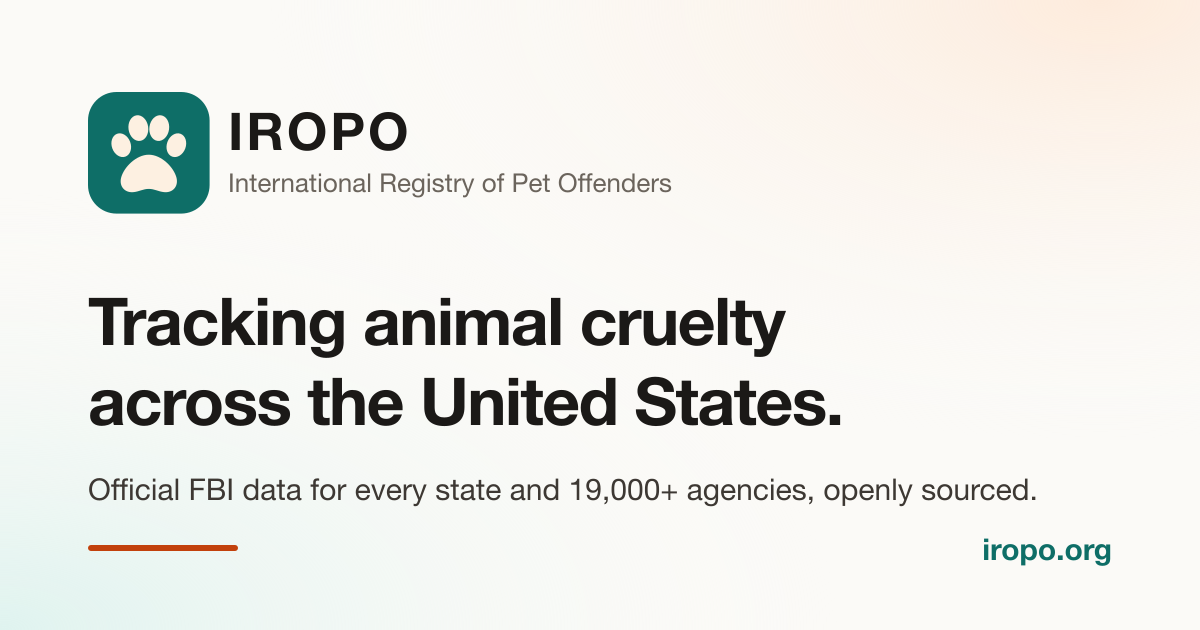
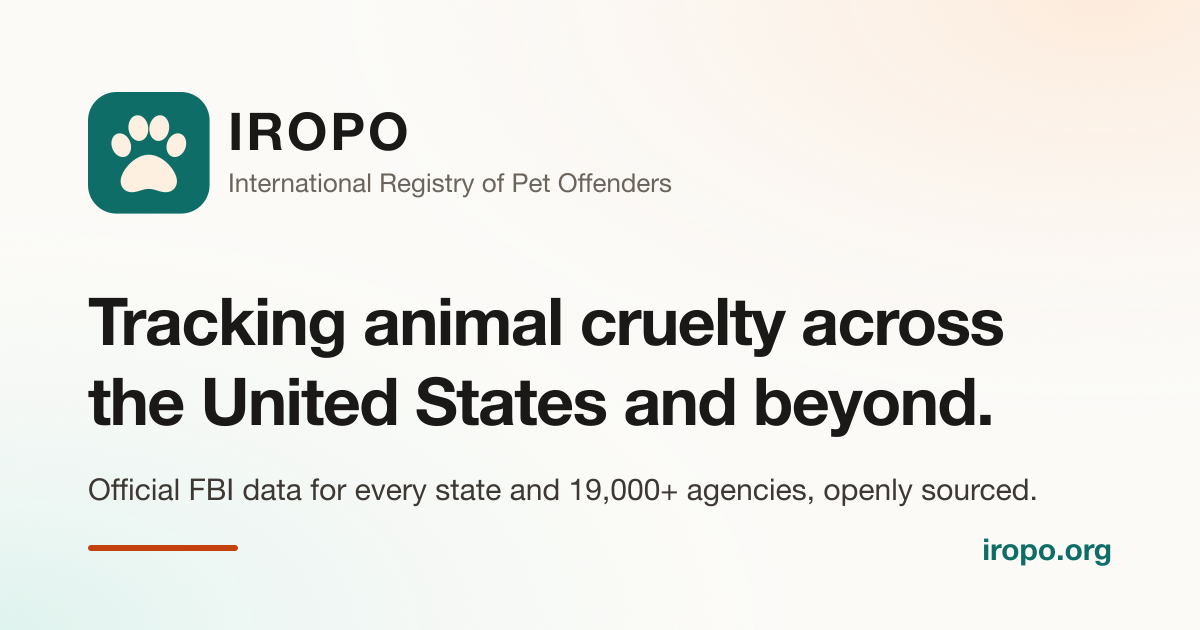
Scope IROPO to the United States and beyond
The site now describes its scope as "the United States and beyond".
Beyond the US, coverage is limited to the only countries with more
people: China and India. Every country's laws on animal cruelty, court
records and personal data differ, and each needs its own legal review,
so the list stays short.

- Update the tagline, meta description, footer and Open Graph image
- Add a scope section to the About page and link it from the home page
- Add Phase 4 (Beyond the United States) to the roadmap, README and
  business plan, plus a jurisdictional risk and per-country legal review
- Limit registry record countries to US, CN and IN in the schema, with
  a test
- Mention China and India in the coverage page, contributing guide,
  get-involved page and data source form

Changed region(s): [[0.0617, 0.6032, 0.8325, 0.6937], [0.6475, 0.4825, 0.8325, 0.573]]

diff --git a/src/lib/site.ts b/src/lib/site.ts
@@ -3,7 +3,7 @@ export const SITE = {
   longName: "International Registry of Pet Offenders",
   url: "https://iropo.org",
   description:
-    "IROPO turns official FBI crime data and public records into one verifiable source of truth on animal cruelty in the United States.",
+    "IROPO turns official crime data and public records into one verifiable source of truth on animal cruelty in the United States and beyond.",
   repo: "https://github.com/the-robots/iropo.org",
 };
 

diff --git a/pipeline/tests/test_build.py b/pipeline/tests/test_build.py
@@ -5,7 +5,7 @@ import pytest
 
 from iropo_pipeline import config
 from iropo_pipeline.build import _dumps, publishable
-from iropo_pipeline.validate import validate_all
+from iropo_pipeline.validate import _schema, validate_all
 
 
 def record(**overrides):
@@ -36,6 +36,39 @@ def test_publication_gate_requires_two_reviewers_and_unexpired_listing():
     assert not publishable(record(verification={"reviewers": ["alice", "Alice"]}), today)
     assert not publishable(record(listing={"expires_at": "2026-09-30"}), today)
     assert publishable(record(listing={"expires_at": "2027-01-01"}), today)
+
+
+def test_registry_records_are_limited_to_countries_in_scope():
+    validator = _schema("registry-record.schema.json")
+
+    def full_record(country, state):
+        return {
+            "id": "iropo-test0001",
+            "status": "draft",
+            "subject": {"kind": "person", "name": {"full": "Test Subject"}},
+            "case": {
+                "jurisdiction": {"country": country, "state": state},
+                "offense": {"description": "Animal cruelty"},
+                "disposition": "convicted",
+            },
+            "sources": [
+                {
+                    "type": "court_record",
+                    "url": "https://example.org/case",
+                    "retrieved_at": "2026-09-30T00:00:00Z",
+                }
+            ],
+            "provenance": {
+                "created_at": "2026-09-30T00:00:00Z",
+                "updated_at": "2026-09-30T00:00:00Z",
+                "created_by": "test",
+            },
+        }
+
+    for country, state in (("US", "NC"), ("CN", "GD"), ("IN", "MH")):
+        assert list(validator.iter_errors(full_record(country, state))) == []
+    for country in ("CA", "GB", "BR"):
+        assert list(validator.iter_errors(full_record(country, "ON")))
 
 
 def test_dumps_keeps_scalar_arrays_on_one_line():

diff --git a/BUSINESS_PLAN.md b/BUSINESS_PLAN.md
@@ -6,7 +6,7 @@
 
 ## 1. Executive summary
 
-IROPO is a nonprofit-oriented animal-welfare project that aggregates public and official records into a single, verifiable source of truth documenting people who have harmed animals, and publishes that information at `iropo.org` for advocates, shelters, rescues, adoption agencies, and the public.
+IROPO is a nonprofit-oriented animal-welfare project that aggregates public and official records into a single, verifiable source of truth documenting people who have harmed animals, and publishes that information at `iropo.org` for advocates, shelters, rescues, adoption agencies, and the public. Its geographic scope is the United States and beyond: the US first, then only the countries with more people than the US, China and India (Section 3.3).
 
 The project is currently a data-collection and research effort with no revenue, no formal legal entity, and no dedicated funding. This plan defines what IROPO will offer, how it will be built and operated, and — most centrally — how it will be funded, since funding is the current blocker called out in the README's "Mission and goals" and "Roadmap" sections.
 
@@ -20,7 +20,7 @@ The project is currently a data-collection and research effort with no revenue, 
 
 ### 3.1 Core offering (free, public good)
 - A searchable public registry at `iropo.org` of animal-cruelty offender records, each with source citations, verification status, and a correction/removal path.
-- State/city coverage starting with the states already represented in this repository (NC, ND, NY), expanding over time.
+- Coverage of the United States (aggregate statistics already span all 50 states and DC), expanding beyond the US only to China and India (Section 3.3).
 
 ### 3.2 Supporting offerings (to help fund the core mission)
 - **Verified data access / API tier** — a rate-limited or licensed API for shelters, rescues, background-check vendors, and researchers who want structured, machine-readable access beyond the public search UI.
@@ -29,6 +29,15 @@ The project is currently a data-collection and research effort with no revenue, 
 - **Merchandise / branded donations page** — low-effort, low-priority revenue support (stickers, apparel) tied to the mission, mainly for community engagement rather than material funding.
 
 The core registry must remain free and public; paid tiers apply only to bulk/API/institutional access, not to basic public search.
+
+### 3.3 Geographic scope: the United States and beyond
+
+IROPO is an international registry, but covering every country is not realistic: laws on animal cruelty, court records, and personal data differ from country to country, and many are much stricter than in the US. The scope is therefore limited to countries at least the size of the United States by population:
+
+- **United States** — covered today.
+- **China** and **India** — the only countries with more people than the US; planned for Phase 4.
+
+Together these are the world's three most populous countries. Each new country requires its own legal review (Section 5) and source evaluation before any of its data is published. Other countries are out of scope unless this plan is revised.
 
 ## 4. Market and users
 
@@ -42,6 +51,7 @@ Before any funding or public launch, IROPO needs a formal legal footing:
 
 - Evaluate forming a **501(c)(3) nonprofit** (or fiscal sponsorship under an existing nonprofit) to enable tax-deductible donations and grant eligibility. Fiscal sponsorship is the faster near-term path while full nonprofit status is pursued.
 - Obtain legal review specific to publishing personally identifying information about individuals (defamation, privacy, and jurisdiction-specific risk), as flagged in the README's legal & ethical considerations.
+- Before expanding beyond the US, obtain a separate legal review for China and India covering animal cruelty law, access to and reuse of court records, and data protection law (China's Personal Information Protection Law; India's Digital Personal Data Protection Act, 2023).
 - Define governance: who has authority to add/remove/correct records, and an appeals process for disputed entries.
 - Confirm licensing terms for any third-party data sources (e.g., FBI Crime Data API terms of use).
 
@@ -49,7 +59,7 @@ Before any funding or public launch, IROPO needs a formal legal footing:
 
 This maps directly onto the existing README roadmap, sequenced into phases with funding gates.
 
-> **Status (September 2026):** the canonical record schema and draft publication, correction and dispute policies are done (Phase 0). The automated FBI importer covers all 50 states and DC with provenance and a coverage matrix (Phase 1). The framework decision is made and the public site, search and open-data downloads are live at `iropo.org` on free GitHub Pages hosting (Phase 2). Legal structure, legal review, court-record sources and the individual-record verification workflow remain open. See the [roadmap](https://iropo.org/roadmap/).
+> **Status (September 2026):** the canonical record schema and draft publication, correction and dispute policies are done (Phase 0). The automated FBI importer covers all 50 states and DC with provenance and a coverage matrix (Phase 1). The framework decision is made and the public site, search and open-data downloads are live at `iropo.org` on free GitHub Pages hosting (Phase 2). Legal structure, legal review, court-record sources and the individual-record verification workflow remain open. Expansion beyond the United States is limited to China and India (Phase 4). See the [roadmap](https://iropo.org/roadmap/).
 
 ### Phase 0 — Foundation (pre-funding)
 - Formalize legal structure (fiscal sponsorship or nonprofit filing).
@@ -74,6 +84,13 @@ This maps directly onto the existing README roadmap, sequenced into phases with 
 - Promote across social media and animal-welfare communities.
 - Establish an ongoing maintenance plan (updates, reviews, corrections, archival).
 
+### Phase 4 — Beyond the United States
+- Obtain a legal review for China and India covering animal cruelty, court record, and personal data law.
+- Catalog and evaluate official animal cruelty data and court record sources in each country.
+- Recruit volunteers and partners with legal and language expertise in each country.
+- Extend the schemas, pipeline, and site to jurisdictions outside the US.
+- Publish a country's data only after its legal review is complete.
+
 Each phase should only begin once the funding needed to staff and run it (Section 7) is secured or credibly committed — avoid scaling data collection or publishing faster than verification and legal review can keep up.
 
 ## 7. Funding plan
@@ -81,7 +98,7 @@ Each phase should only begin once the funding needed to staff and run it (Sectio
 ### 7.1 What funding is needed for
 - **Hosting and infrastructure:** database hosting, storage for source documents, API infrastructure.
 - **Tooling:** scraping/automation tooling, monitoring, backup.
-- **Legal review:** attorney time for privacy/defamation review and nonprofit filing.
+- **Legal review:** attorney time for privacy/defamation review and nonprofit filing, plus a separate review for each country before expanding to China and India.
 - **People:** part-time or contract help for data verification, engineering, and design once volunteer capacity is insufficient.
 - **Promotion:** basic outreach/design costs for launch materials.
 
@@ -114,6 +131,7 @@ Exact figures depend on hosting choices and legal counsel quotes; this table sho
 ## 9. Risks
 
 - **Legal/reputational risk:** publishing information about identifiable individuals carries defamation and privacy risk if sourcing or verification is weak — mitigate with strict public/official sourcing, provenance tracking, and a working correction/removal process before any public launch.
+- **Jurisdictional risk:** privacy, records, and defamation laws differ by country and are often stricter than in the US — mitigate by limiting the scope to the US, China, and India and requiring a separate legal review before publishing data from each country.
 - **Funding risk:** without a legal entity, donations and grants are not readily available — prioritize Section 5 and 7.3 step 1 early.
 - **Volunteer sustainability risk:** as a volunteer-driven project, progress depends on contributor availability — track this openly in `CONTRIBUTING.md` and roadmap issues.
 - **Data quality risk:** inconsistent or incomplete source data could undermine trust — verification workflow (Phase 1) must be in place before Phase 2 launch.

diff --git a/README.md b/README.md
@@ -1,6 +1,6 @@
 # IROPO — International Registry of Pet Offenders
 
-IROPO is an animal-welfare advocacy project that documents animal cruelty using public and official data sources, with the long-term goal of a trustworthy registry of people who have harmed animals.
+IROPO is an animal-welfare advocacy project that documents animal cruelty in the United States and beyond using public and official data sources, with the long-term goal of a trustworthy registry of people who have harmed animals.
 
 **Live site: [iropo.org](https://iropo.org)**
 
@@ -18,6 +18,12 @@ Today the project:
 - **tracks coverage and data quality** for every state, including reporting gaps;
 - **links to official, government-run animal abuser registries** instead of copying their listings;
 - **defines the record format and publication rules** for a future registry of adjudicated cases.
+
+### Scope: the United States and beyond
+
+IROPO covers the United States today. Beyond the US, the scope is deliberately limited to the only countries with more people than the United States: **China** and **India**. Together with the US, they are the world's three most populous countries.
+
+Laws on animal cruelty, court records and personal data differ from country to country, and many are much stricter than in the US. Each country needs its own legal review and source evaluation, including its data protection law (China's Personal Information Protection Law and India's Digital Personal Data Protection Act, 2023), before any of its data is published. Keeping the list short keeps that work manageable. Other countries are out of scope. See [Beyond the United States](#beyond-the-united-states) in the roadmap.
 
 ## The website
 
@@ -215,6 +221,14 @@ The [roadmap page](https://iropo.org/roadmap/) tracks the same milestones.
 - [ ] Establish an ongoing maintenance plan for reviews, corrections and archival decisions (the monthly data refresh is automated).
 - [x] Publish clear expectations for what has and has not been verified.
 
+### Beyond the United States
+
+- [x] Limit the scope beyond the US to the only countries with more people: China and India ([iropo.org/about](https://iropo.org/about/#scope)).
+- [ ] Obtain a legal review for each country covering animal cruelty, court record and personal data law.
+- [ ] Catalog and evaluate official animal cruelty data and court record sources in China and India.
+- [ ] Recruit volunteers and partners with legal and language expertise in each country.
+- [ ] Extend the schemas, pipeline and site to jurisdictions outside the US. The registry record schema already accepts only `US`, `CN` and `IN` as countries.
+
 ## How to contribute
 
 Contributions are welcome, especially:
@@ -234,6 +248,7 @@ Because this project concerns information about identifiable people and alleged 
 - data should come from public, official or otherwise reviewable records;
 - accuracy, verification and provenance matter more than speed;
 - any eventual public listing must have a correction or removal path;
+- each country in scope (the United States, China and India) needs its own legal review, because privacy and records laws differ by country;
 - contributors should be mindful of privacy, defamation and jurisdiction-specific legal risks when handling or publishing information.
 
 These points are not legal advice; they must be addressed before any public registry is treated as authoritative.

diff --git a/CONTRIBUTING.md b/CONTRIBUTING.md
@@ -14,7 +14,8 @@ improvement to its sources, code or documentation helps.
 ## Ways to help
 
 - **Data sources** — document public or official sources such as court portals, government animal
-  abuser registries and agency data. Use the [data source form](https://github.com/the-robots/iropo.org/issues/new?template=data-source.yml).
+  abuser registries and agency data in the United States, China or India, the countries in
+  [IROPO's scope](README.md#scope-the-united-states-and-beyond). Use the [data source form](https://github.com/the-robots/iropo.org/issues/new?template=data-source.yml).
 - **Corrections** — report wrong numbers, names or ORI links with the
   [correction form](https://github.com/the-robots/iropo.org/issues/new?template=correction.yml).
 - **Pipeline** — add importers, improve parsing and matching, or extend validation in [`pipeline/`](pipeline).
